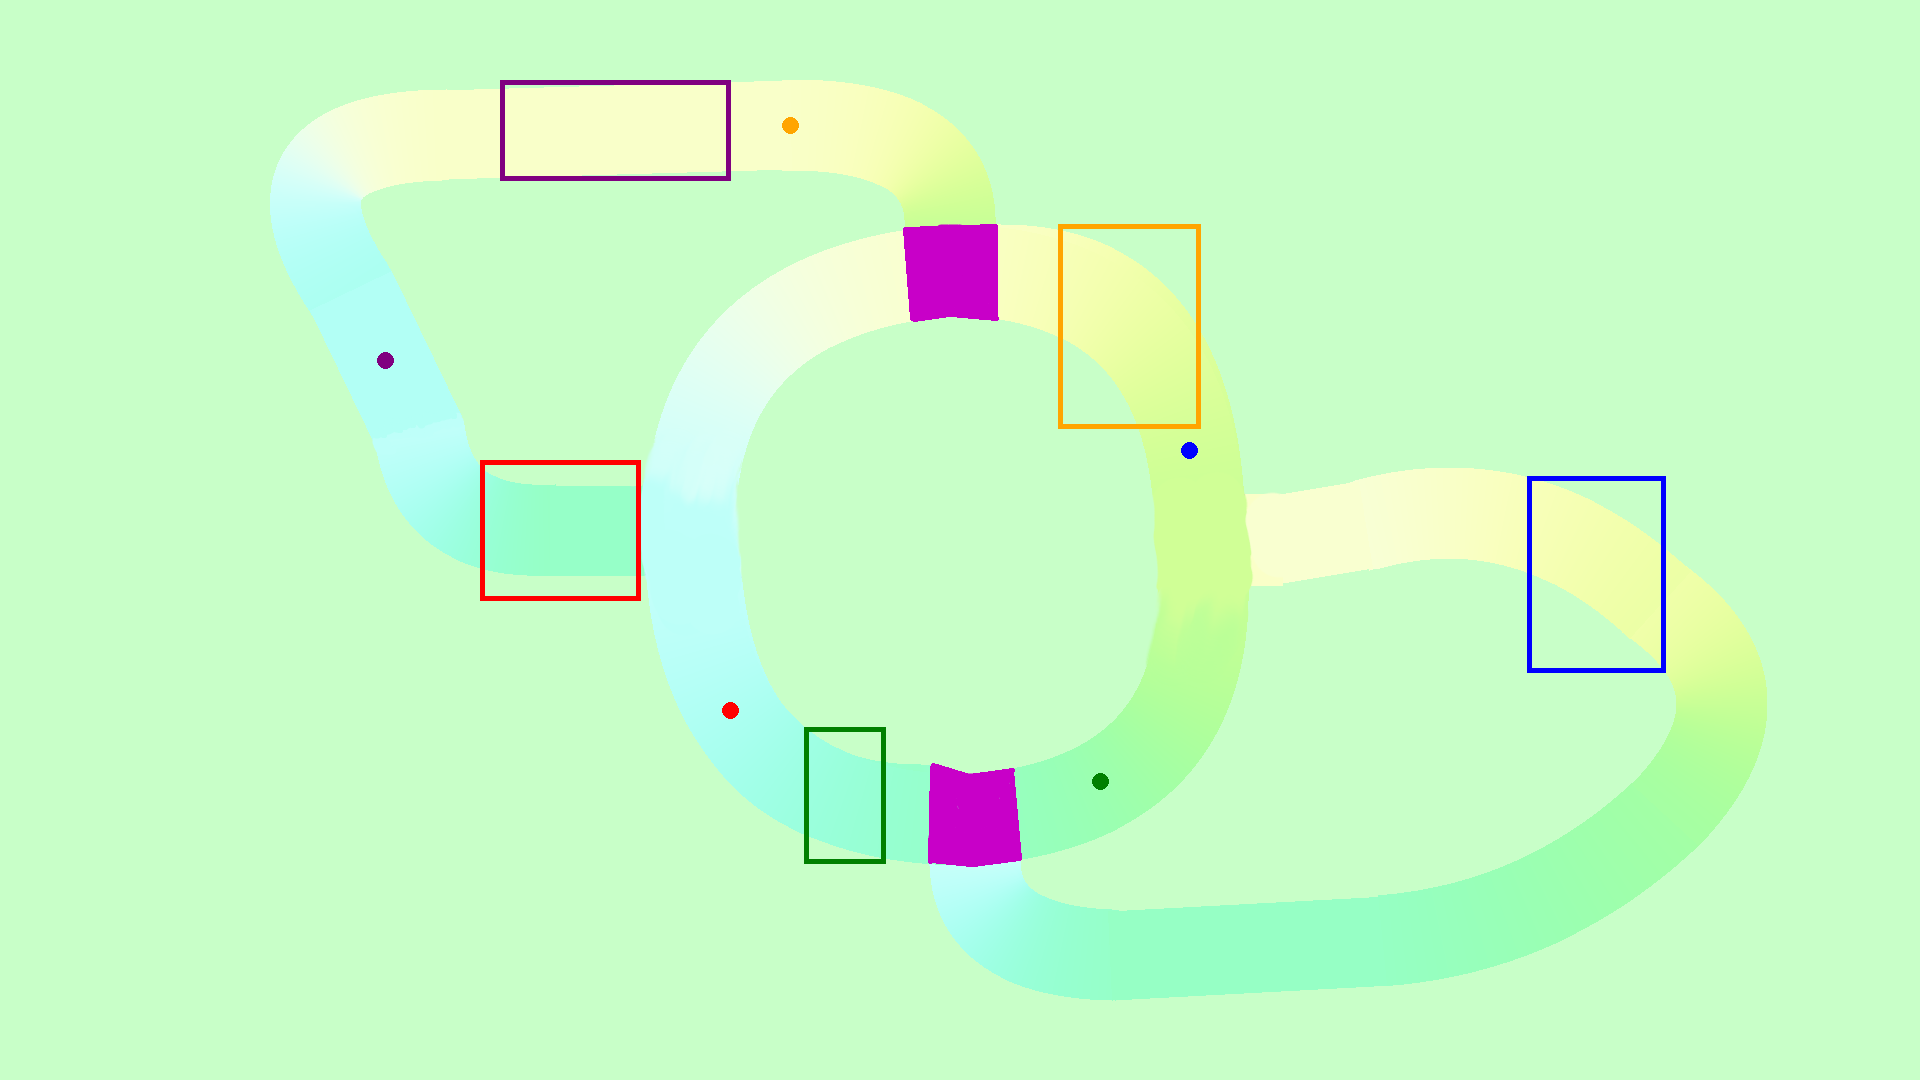
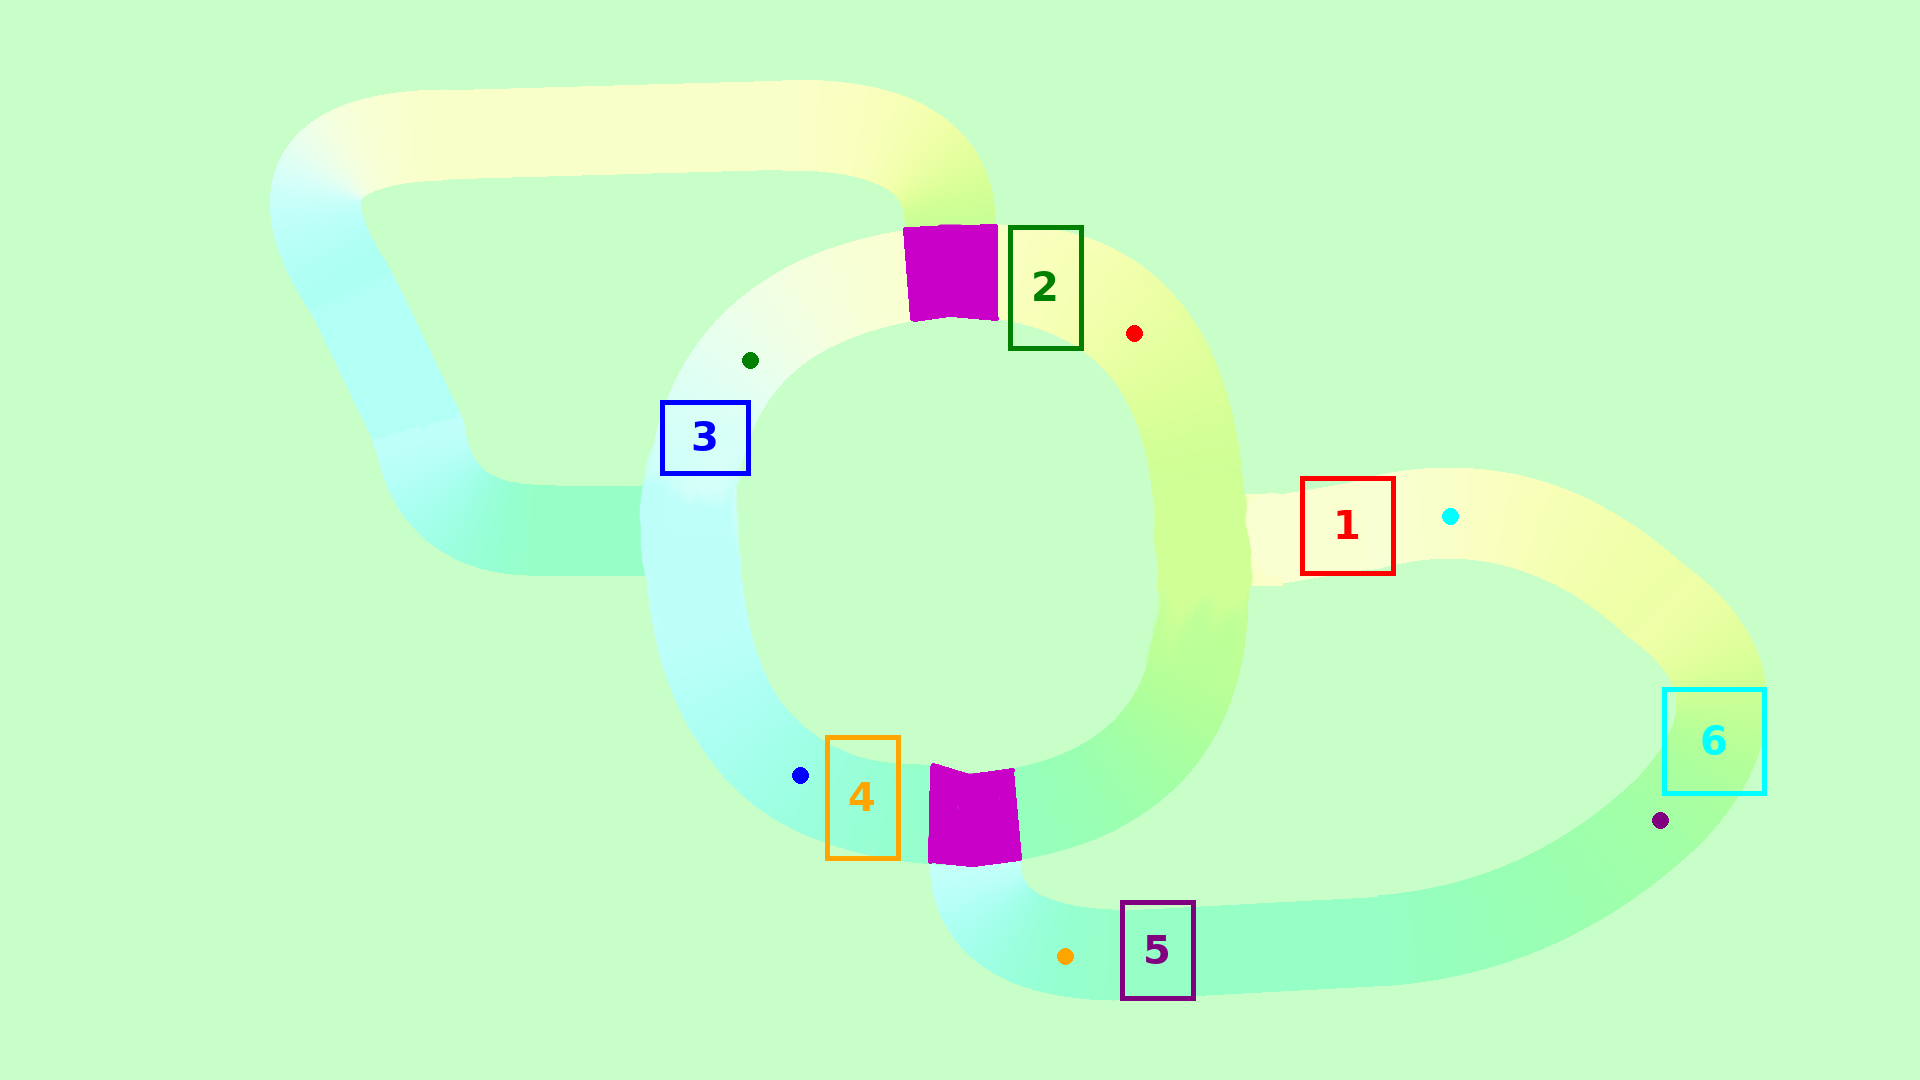
one cycle

diff --git a/scripts/generate_scenario.py b/scripts/generate_scenario.py
@@ -1,6 +1,6 @@
 from dataclasses import dataclass
 
-from PIL import Image, ImageDraw
+from PIL import Image, ImageDraw, ImageFont
 
 PX_IN_METER = 22
 COLORS = ["red", "green", "blue", "orange", "purple", "cyan", "magenta"]
@@ -17,11 +17,26 @@ def draw_section(
     section: Section,
     draw_context: ImageDraw.ImageDraw,
     color: str = "red",
+    number: int = 1,
 ) -> None:
     draw_context.rectangle([section.top_left, section.bottom_right], outline=color, width=5)
     radius = 8
     x, y = section.dest
     draw_context.ellipse([(x - radius, y - radius), (x + radius, y + radius)], fill=color)
+
+    # Dodanie numeru scenariusza na środku prostokąta
+    center_x = (section.top_left[0] + section.bottom_right[0]) // 2
+    center_y = (section.top_left[1] + section.bottom_right[1]) // 2
+
+    # Dodanie tekstu z numerem
+    try:
+        font = ImageFont.truetype("/usr/share/fonts/truetype/dejavu/DejaVuSans-Bold.ttf", 40)
+    except:
+        font = ImageFont.load_default()
+
+    # Rysowanie tekstu bez białego tła
+    text = str(number)
+    draw_context.text((center_x, center_y), text, fill=color, font=font, anchor="mm")
 
 
 def get_section_definition(
@@ -46,11 +61,12 @@ def get_section_definition(
 
 if __name__ == "__main__":
     sections = [
-        Section((480, 460), (640, 600), (730, 710)),
-        Section((804, 727), (885, 863), (1100, 781)),
-        Section((1527, 476), (1665, 672), (1189, 450)),
-        Section((1058, 224), (1200, 428), (790, 125)),
-        Section((500, 80), (730, 180), (385, 360)),
+        Section((1300, 476), (1395, 575), (1134, 333)),
+        Section((1008, 225), (1083, 350), (750, 360)),
+        Section((660, 400), (750, 475), (800, 775)),
+        Section((825, 735), (900, 860), (1065, 956)),
+        Section((1120, 900), (1195, 1000), (1660, 820)),
+        Section((1662, 687), (1766, 795), (1450, 516)),
     ]
     num_of_agents = 2
 
@@ -59,7 +75,7 @@ if __name__ == "__main__":
     csv_string = ""
     for idx, section in enumerate(sections):
         color = COLORS[idx % (len(COLORS))]
-        draw_section(section, draw_context, color)
+        draw_section(section, draw_context, color, idx + 1)  # dodano idx + 1
         csv_string += get_section_definition(section, num_of_agents)
         csv_string += "\n"
     img.save("roads_multi_scenario.png")
